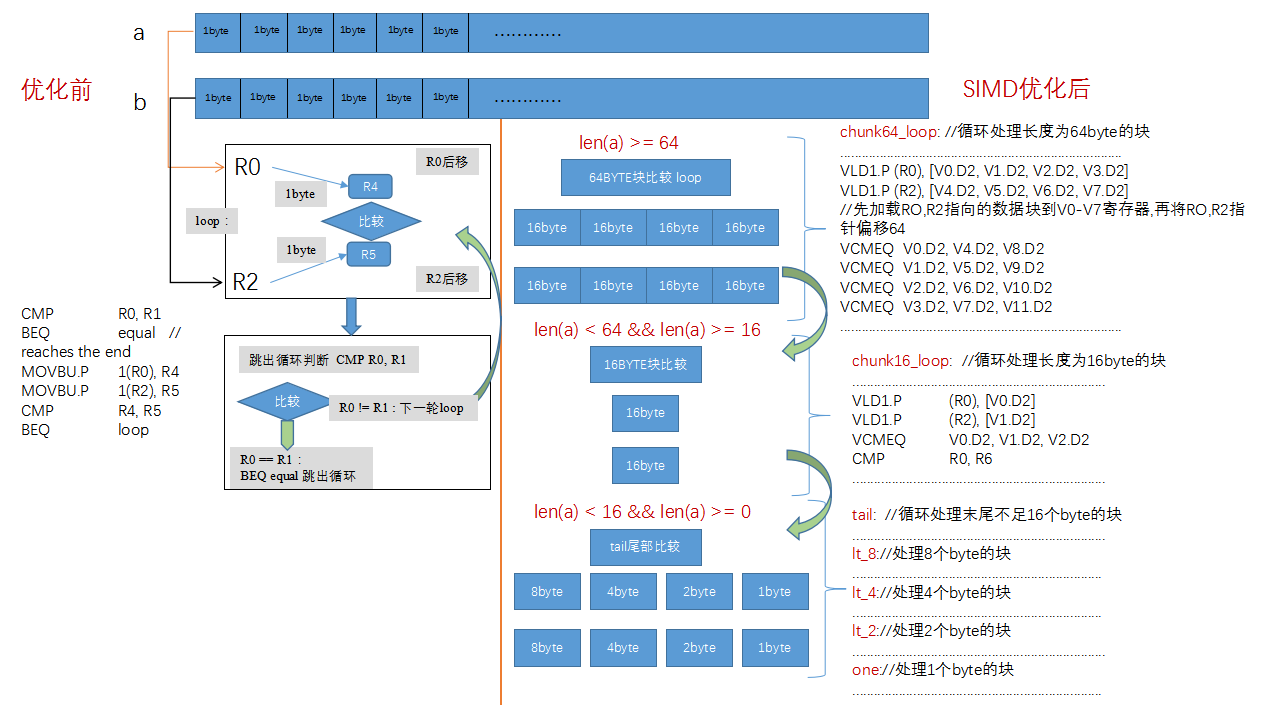
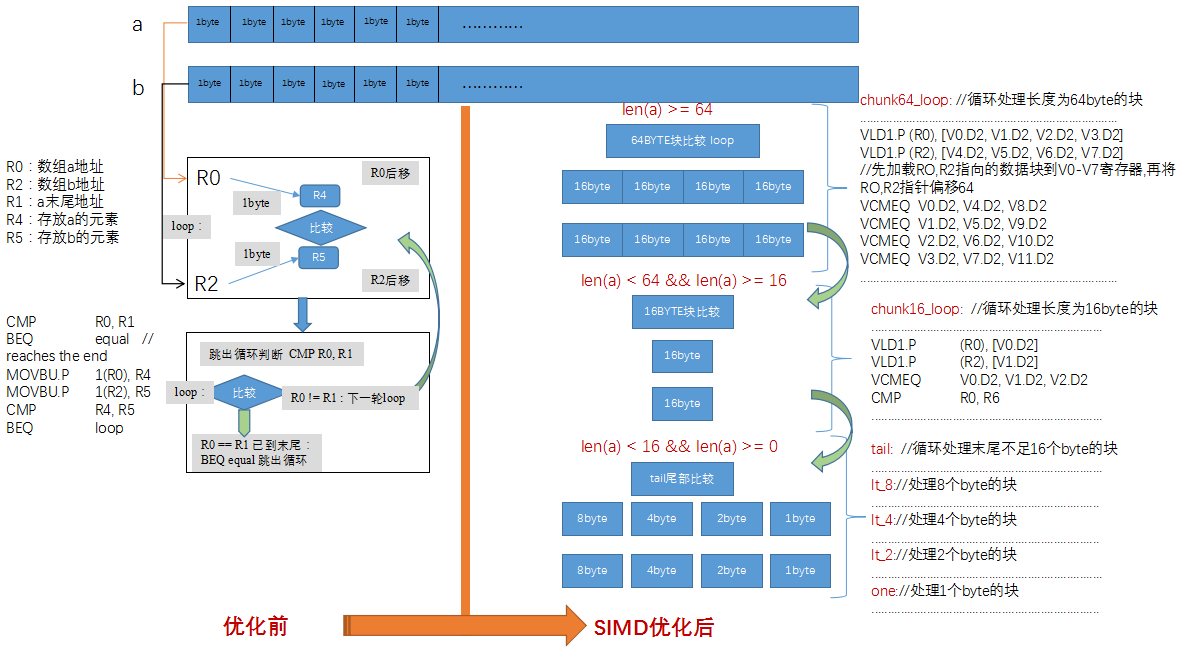
eidt according to review comments

Changed region(s): [[0.0, 0.0, 1.0, 0.9846], [0.1834, 0.9231, 0.2445, 0.9846]]

diff --git a/tutorial/simd/opt_go_comparison_function_by_arm_simd/opt_go_comparison_function_by_arm_simd.md b/tutorial/simd/opt_go_comparison_function_by_arm_simd/opt_go_comparison_function_by_arm_simd.md
@@ -1,63 +1,37 @@
-# 基于ARM SIMD技术优化字节数组比较性能
+# 基于并行化技术优化通用字符串比较性能
 [SIMD即单指令多数据流(Single Instruction Multiple Data)](https://en.wikipedia.org/wiki/SIMD)，通过一条指令同时对多个数据进行运算，能够有效提高CPU的运算速度，主要适用于计算密集型、数据相关性小的多媒体、数学计算、人工智能等领域。  
-Golang是一个在云原生领域广泛使用的编程语言，被誉为云时代的C语言，Go在设计时充分考虑了简洁性和性能，他既包含强大的运行时，帮助用户进行协程调度、垃圾回收，也包括丰富的基础库如数学库、字节数组库、加解密库、图像库、编解码等等。对于性能要求较高且编译器目前还不能优化的场景，Go语言通过在底层使用汇编技术进行了优化，其中最重要的就是SIMD技术，下面将以一个字节数组比较的SIMD优化来详细介绍。
-### 1. 安装包和源码准备
-- 硬件配置：鲲鹏(ARM64)云Linux服务器[通用计算增强型KC1 kc1.2xlarge.2(8核|16GB)](https://www.huaweicloud.com/product/ecs.html)
-- [Golang发行版 1.9.2 和 1.12.1](https://golang.org/dl/)，此处开发环境准备请参考文章：[Golang 在ARM64开发环境配置](https://github.com/OptimizeLab/docs/blob/master/tutorial/environment/go_dev_env/go_dev_env.md)
-- [Golang github源码仓库](https://github.com/golang/go)下载，此处可以直接下载打包文件，但更好的方式是通过git工具管理
-- [Git使用简介](https://www.liaoxuefeng.com/wiki/896043488029600/896067008724000)：可以参考廖雪峰老师的网站  
-通过在bash命令行执行如下指令拉取golang的最新代码：
+[Go](https://golang.org/doc/)是一种快速、静态类型的开源语言，可以用来轻松构建简单、可靠、高效的软件。包含垃圾回收的便利性和运行时反射的功能。他的并发机制使go程序可以在多核和联网机器中获得最大收益。目前已经包括丰富的基础库如数学库、加解密库、图像库、编解码等等。对于性能要求较高且编译器目前还不能优化的场景，Go语言通过在底层使用汇编技术进行了优化，其中最重要的就是SIMD技术。本文以Go语言开源社区在ARM硬件平台的优化实践为例，介绍应用ARM SIMD技术的方法。
+### 1. 环境准备
+- 硬件配置：鲲鹏(ARM64)云Linux服务器-[通用计算增强型KC1 kc1.2xlarge.2(8核|16GB)](https://www.huaweicloud.com/product/ecs.html)
+- [Golang发行版 >= 1.12.1](https://golang.org/dl/)，此处开发环境准备请参考文章：[Golang 在ARM64开发环境配置](https://github.com/OptimizeLab/docs/blob/master/tutorial/environment/go_dev_env/go_dev_env.md)
+- [Golang github源码仓库](https://github.com/golang/go)下载，此处通过[Git](https://git-scm.com/book/zh/v2)进行版本控制
+- 通过在bash命令行执行如下指令，拉取github代码托管平台上golang的代码仓：
 ```bash
 $ git clone https://github.com/golang/go
 ```
-### 2. byte数组比较的性能问题
-在代码编写中经常会碰到比较两个字符串是否相等的情况，在Golang语言中可以将两个string转为字节数组[]byte的形式进行比较，其中每个byte是一个字节(8bit)，如下是一个简单直观的比较函数实现思路:
-```go
-func EqualByteArrAB(a, b []byte) bool {
-    //---------------数组长度比较-------------------
-    if len(a) != len(b) {          
-        return false               
-    }                              
-    //--------按顺序比较数组a和数组b中的每个byte------
-    for i, _ := range a {
-        if a[i] != b[i] {
-            return false
-        }
-    }
-    return true
-}
-```
-实现算法后，需要进行充分的测试才能投入生产环境，通过[benchmark工具](https://golang.org/pkg/testing/)进行测试后获得如下性能数据：
+### 2. 社区的ARM SIMD优化方案
+那么如何获取Go语言的SIMD指令优化方案呢？包含两种查看优化记录的方法：  
+1、在网页查看优化提交记录[ChangeList](http://svnbook.red-bean.com/en/1.8/svn.advanced.changelists.html)：[bytes: add optimized Equal for arm64](https://go-review.googlesource.com/c/go/+/71110)。  
+2、在本地源码仓查看，进入刚下载的go源码目录下，此时处于master分支上，展示的是最新的代码，本文已经找到了优化前后的两个提交记录，并通过这两个记录创建分支，再通过分支切换，展示优化前后的代码：
 ```bash
-goos: linux
-goarch: arm64
-pkg: test_obj/testbyteequal
-BenchmarkEqual/0-8             330669548                3.64 ns/op
-BenchmarkEqual/1-8             227632882                5.27 ns/op           189.74 MB/s
-BenchmarkEqual/6-8             132229749                9.09 ns/op           660.35 MB/s
-BenchmarkEqual/9-8             100000000                10.1 ns/op           893.80 MB/s
-BenchmarkEqual/15-8             83173801                14.4 ns/op          1041.32 MB/s
-BenchmarkEqual/16-8             79955283                15.0 ns/op          1069.79 MB/s
-BenchmarkEqual/20-8             67353938                17.8 ns/op          1124.26 MB/s
-BenchmarkEqual/32-8             45706566                26.2 ns/op          1219.49 MB/s
-BenchmarkEqual/4K-8               421956                2844 ns/op          1440.18 MB/s
-BenchmarkEqual/4M-8                  334             3496666 ns/op          1199.52 MB/s
-BenchmarkEqual/64M-8                  18            66481026 ns/op          1009.44 MB/s
+# 根据优化前的一个提交记录0c68b79创建一个新的分支before-simd，这个分支包含优化前的版本
+git checkout -b before-simd 0c68b79
+# 切换到分支before-simd，此时目录下的代码文件已经变成了优化前的版本
+git checkout before-simd
+# 根据优化后提交记录78ddf27创建一个新的分支after-simd，这个分支包含优化后的版本
+git checkout -b after-simd 78ddf27
+# 切换到分支after-simd，此时目录下的代码文件已经变成了优化后的版本
+git checkout after-simd
 ```
-通过观察数据可以直观的发现，随着数据增长，算法的性能变得非常差，当字节数组长度>4K时，已经影响到了正常的使用。  
-
-对代码进行简单分析，可以发现最主要的操作是循环执行比较语句a[i] != b[i]，这里最主要的开销是byte数据加载和比较操作，随着测试的byte数组长度增长，执行的数据加载和比较操作越来越多，开销也就越来越大。如果能够减少数据加载和比较的次数就可以优化性能，利用ARM硬件架构的SIMD加速特性是解决该问题的有效办法：
-### 3. SIMD优化方案
-那么Go语言是怎么处理这个问题的呢？在深入分析本文所使用的Golang发行版1.9.2官方源码后，在src/runtime/asm_arm64.s文件中发现了上节比较函数的Golang汇编版本EqualBytes，算法逻辑完全一致，如图所示：
+为便于理解，下图展示了优化前的汇编函数EqualBytes与编写go代码的对应关系，此处对于一行go代码a[i]!=b[i]，需要四条汇编指令：1. 两条取数指令，分别将切片数组a和b中的byte值取到寄存器中；2. 通过比较指令CMP对比两个寄存器中的值，根据比较结果更新[状态寄存器](https://baike.baidu.com/item/%E7%8A%B6%E6%80%81%E5%AF%84%E5%AD%98%E5%99%A8/2477799?fr=aladdin); 3. 跳转指令BEQ根据状态寄存器值进行跳转，此处是等于则跳转到loop标签处，即如果相等则继续下一轮比较。
 ![image](images/image-code-compare.png)
-经过对比验证发现在常用的社区发行版(如1.12.1)中已经对EqualBytes函数做了优化，解决了本文场景下的性能问题，具体的优化提交记录见[ChangeList](http://svnbook.red-bean.com/en/1.8/svn.advanced.changelists.html)
-：[bytes: add optimized Equal for arm64](https://go-review.googlesource.com/c/go/+/71110)，该优化方法使用了SIMD技术，即单指令同时处理多个byte数据，大幅减少了数据加载和比较操作的指令条数，提升了性能
-### 4. SIMD优化前后对比  
-如下是使用SIMD技术优化前后的对比图，优化前后的代码都是使用Golang汇编编写，从图中可以看到优化前代码非常简单，循环取1 byte进行比较，使用SIMD指令优化后，代码变得非常复杂，这里可以先避免陷入细节，先理解实现原理，具体代码细节可以在章节6再进一步学习。此处代码变复杂的主要原因是进行了分情况的分块处理，首先循环处理64 bytes大小的分块，当数组末尾不足64 bytes时，再将余下的按16 bytes分块处理，直到余下长度为1时的情况，下图直观的演示了优化前后的对比关系和优化后分块处理的规则:
+
+优化方法使用了SIMD技术，即单指令同时处理多个byte数据，大幅减少了数据加载和比较操作的指令条数，提升了性能   
+下图是使用SIMD技术优化汇编代码前后的对比图，从图中可以看到优化前代码非常简单，循环取1 byte进行比较，使用SIMD指令优化后，代码被复杂化，这里可以先避免陷入细节，先理解实现原理，具体代码细节可以在章节[优化后代码详解]再进一步学习。此处代码变复杂的主要原因是进行了分情况的分块处理，首先循环处理64 bytes大小的分块，当数组末尾不足64 bytes时，再将余下的按16 bytes分块处理，直到余下长度为1时的情况，下图直观的演示了优化前后的对比关系和优化后分块处理的规则:
 ![image](images/simd-compare.png)  
     
-### 5. 优化前代码详解
-优化前的代码实现在src/runtime/asm_arm64.s中，该函数是循环从两个数组中取1 byte进行比较，每byte数据要耗费两个加载操作、1个byte比较操作、1个数组末尾判断操作，如下所示：
+### 3. 优化前代码详解
+优化前的代码循环从两个数组中取1 byte进行比较，每byte数据要耗费2个加载操作、1个比较操作、1个数组末尾判断操作，如下所示：
 ```assembly
 //func Equal(a, b []byte) bool
 TEXT bytes·Equal(SB),NOSPLIT,$0-49
@@ -94,8 +68,8 @@ equal:
 //----------------------------- 
 ```
 
-### 6. 优化后代码详解
-优化后的代码实现在src/runtime/asm_arm64.s中。这里的代码实现因为做了循环展开，所有看起来比较复杂，但逻辑是很清晰的，即采用分块的思路，将数组划分为64/16/8/4/2/1bytes大小的块，最大程度发挥SIMD指令的优势，使用多个向量寄存器，每次循环中尽可能处理更多的数据。汇编代码解读如下(代码中添加了关键指令注释）：
+### 4. 优化后代码详解
+优化后的代码因为做了循环展开，所有看起来比较复杂，但逻辑是很清晰的，即采用分块的思路，将数组划分为64/16/8/4/2/1bytes大小的块，最大程度发挥SIMD指令的优势，使用多个向量寄存器，每次循环中尽可能处理更多的数据。汇编代码解读如下(代码中添加了关键指令注释）：
 ```assembly
 // 函数的参数，此处是通过寄存器传递参数的
 // 调用memeqbody的父函数已经将参数放入了如下寄存器中
@@ -200,7 +174,7 @@ not_equal:
 ```
 上述优化代码中，使用VLD1(数据加载指令)一次加载64byte数据到SIMD寄存器，再使用VCMEQ指令比较SIMD寄存器保存的数据内容得到结果，相比传统用的单字节比较方式，大大提高了大于64byte数据块的比较性能。大于16byte小于64byte块数据，使用一个SIMD寄存器一次处理16byte块的数据，小于16byte数据块使用通用寄存器保存数据，一次比较8\4\2\1byte的数据块。
 
-### 7. 结果验证
-使用[benchstat工具](https://godoc.org/golang.org/x/perf/cmd/benchstat)进行性能对比，整理到表格后如下所示： 
+### 5. 结果验证
+go语言可通过[benchmark工具](https://golang.org/pkg/testing/)进行单个函数的性能测试。获得结果后通过使用[benchstat工具](https://godoc.org/golang.org/x/perf/cmd/benchstat)进行优化前后的性能对比。具体使用方法请参考文章[Golang 在ARM64开发环境配置]( https://github.com/OptimizeLab/docs/blob/master/tutorial/environment/go_dev_env/go_dev_env.md)。结果如下表格(ns/op：每次函数执行耗费的纳秒时间，MB/s：每秒处理的兆字节数据)： 
 ![image](images/SIMDEqualResult.png)  
 上表中可以清晰的看到使用SIMD优化后，所有的用例性能都有所提升，其中数据大小为4K时性能提升率最高，耗时减少了93.48%；每秒数据处理量提升14.29倍
